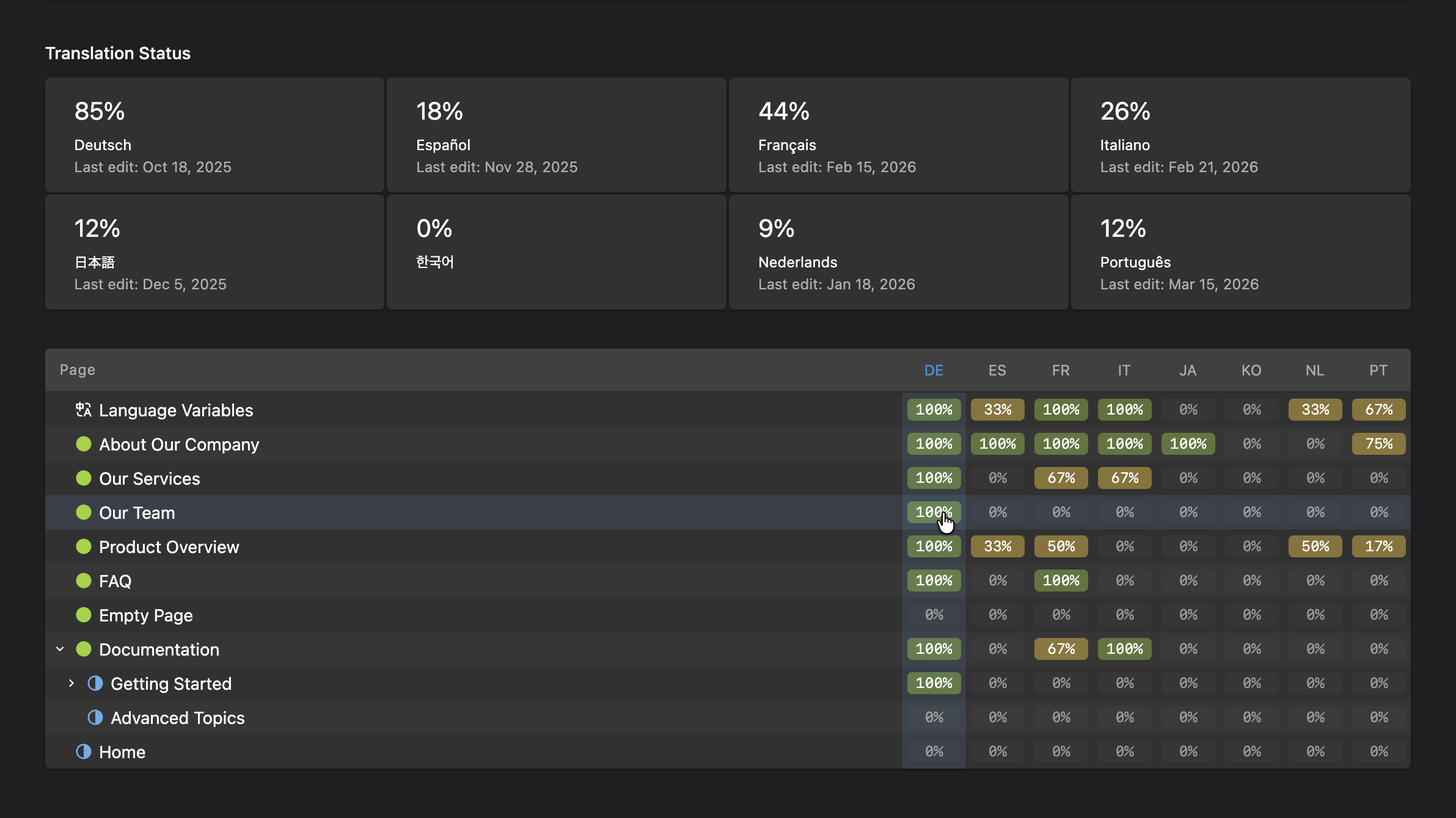
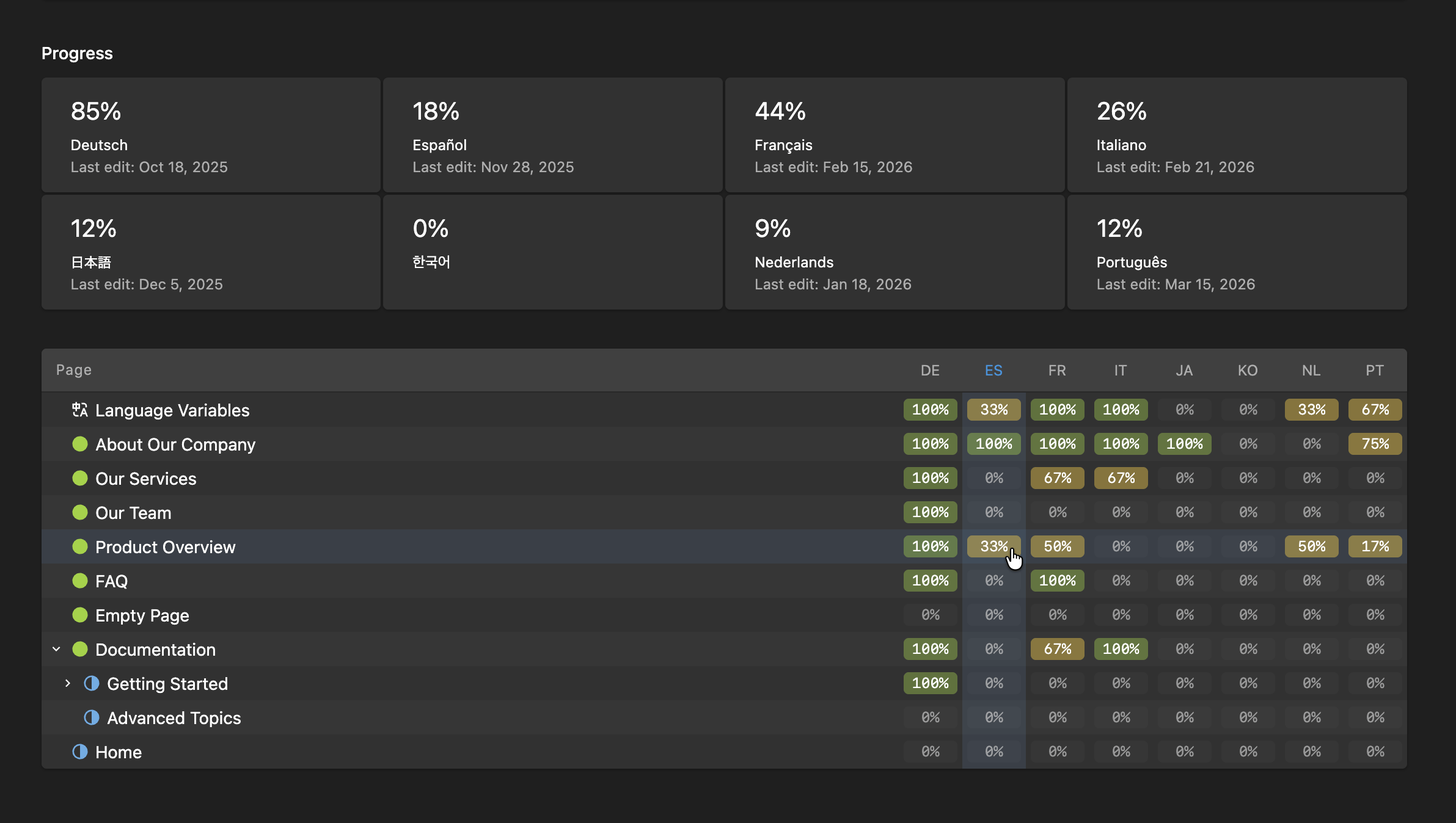
Status → progress

diff --git a/index.js b/index.js
@@ -1,1 +1,1 @@
-(function(){"use strict";function o(a,t,e,n,r,s,l,$){var i=typeof a=="function"?a.options:a;return t&&(i.render=t,i.staticRenderFns=e,i._compiled=!0),{exports:a,options:i}}const c={extends:"k-languages-view",data(){return{translationTree:[],translationLanguages:[],translationDefaultLanguage:"",translationTotals:{},translationLastModified:{},hoveredLang:null}},created(){this.loadTranslationStatus()},computed:{statsReports(){return this.translationLanguages.map(a=>{const t=this.translationTotals[a.code]||{},e=t.total?Math.round(t.translated/t.total*100):0,n=this.translationLastModified[a.code];let r=n?this.$t("translation-status.last-modified")+" "+new Date(n).toLocaleDateString(this.$panel.translation.code,{year:"numeric",month:"short",day:"numeric"}):"";return{value:e===100?"100% 🎉":e+"%",label:a.name,info:r,link:"languages/"+a.code}})}},methods:{async loadTranslationStatus(){try{const a=await this.$api.get("translation-status/overview");this.translationTree=a.tree,this.translationLanguages=a.languages,this.translationDefaultLanguage=a.defaultLanguage,this.translationTotals=a.totals,this.translationLastModified=a.lastModified}catch(a){console.error("Translation status load failed:",a)}}}};var u=function(){var t=this,e=t._self._c;return e("k-panel-inside",{staticClass:"k-languages-view"},[e("k-header",{scopedSlots:t._u([{key:"buttons",fn:function(){return[e("k-view-buttons",{attrs:{buttons:t.buttons}})]},proxy:!0}])},[t._v(" "+t._s(t.$t("view.languages"))+" ")]),t.languages.length>0?[e("k-section",{attrs:{headline:t.$t("languages.default")}},[e("k-collection",{attrs:{items:t.primaryLanguage}})],1),e("k-section",{attrs:{headline:t.$t("languages.secondary")}},[t.secondaryLanguages.length?e("k-collection",{attrs:{items:t.secondaryLanguages}}):e("k-empty",{attrs:{icon:"translate",disabled:!t.$panel.permissions.languages.create},on:{click:function(n){return t.$dialog("languages/create")}}},[t._v(" "+t._s(t.$t("languages.secondary.empty"))+" ")])],1)]:t.languages.length===0?[e("k-empty",{attrs:{icon:"translate",disabled:!t.$panel.permissions.languages.create},on:{click:function(n){return t.$dialog("languages/create")}}},[t._v(" "+t._s(t.$t("languages.empty"))+" ")])]:t._e(),t.translationTree&&t.translationTree.length?[e("k-section",{staticClass:"translation-status-section",attrs:{headline:t.$t("translation-status.title")}},[e("k-stats",{attrs:{size:"medium",reports:t.statsReports}})],1),e("k-section",[e("div",{staticClass:"translation-status-tree-container",on:{mouseleave:function(n){t.hoveredLang=null}}},[e("div",{staticClass:"translation-status-tree-inner"},[e("div",{staticClass:"translation-tree-header"},[e("span",{staticClass:"translation-tree-header__pages",on:{mouseenter:function(n){t.hoveredLang=null}}},[t._v(t._s(t.$t("page")))]),e("div",{staticClass:"translation-tree-header__percentages"},t._l(t.translationLanguages,function(n){return e("span",{key:n.code,staticClass:"translation-tree-header__cell",class:{"translation-tree-header__cell--hover":t.hoveredLang===n.code},on:{mouseenter:function(r){t.hoveredLang=n.code}}},[e("span",{staticClass:"translation-tree-header__lang",class:{"translation-tree-header__lang--hover":t.hoveredLang===n.code},attrs:{title:n.name}},[t._v(t._s(n.code.toUpperCase()))])])}),0)]),e("translation-tree",{attrs:{nodes:t.translationTree,languages:t.translationLanguages,"default-language":t.translationDefaultLanguage,"hovered-lang":t.hoveredLang},on:{"hover-lang":function(n){t.hoveredLang=n}}})],1)])])]:t._e()],2)},d=[],g=o(c,u,d);const h=g.exports,_={name:"translation-tree",props:{nodes:{type:Array,default:()=>[]},languages:{type:Array,default:()=>[]},defaultLanguage:{type:String,default:"en"},hoveredLang:{default:null},level:{type:Number,default:0},startIndex:{type:Number,default:0}},emits:["hover-lang"],data(){const a=this.loadStoredIds(),t=a!==null?this.nodes.filter(e=>a.includes(e.id)).map(e=>e.id):this.nodes.map(e=>e.id);return{openIds:new Set(t)}},methods:{flatIndex(a){let t=this.startIndex;for(let e=0;e<a;e++)t+=1+this.visibleDescendants(this.nodes[e]);return t},visibleDescendants(a){if(!this.hasChildren(a)||!this.isOpen(a.id))return 0;let t=0;for(const e of a.children)t+=1+this.visibleDescendants(e);return t},childStartIndex(a){return this.flatIndex(a)+1},hasChildren(a){return a.children&&a.children.length>0},isOpen(a){return this.openIds.has(a)},toggle(a){this.openIds.has(a)?this.openIds.delete(a):this.openIds.add(a),this.openIds=new Set(this.openIds),this.saveStoredIds()},loadStoredIds(){try{const a=localStorage.getItem("translation-tree-open");return a?JSON.parse(a):null}catch{return null}},saveStoredIds(){const a=this.loadStoredIds()||[];for(const t of this.nodes){const e=a.indexOf(t.id);this.openIds.has(t.id)&&e===-1?a.push(t.id):!this.openIds.has(t.id)&&e!==-1&&a.splice(e,1)}localStorage.setItem("translation-tree-open",JSON.stringify(a))},percentLink(a,t){return a.id==="_variables"?"/languages/"+t:a.link?"/"+a.link+"?language="+t:!1},percentage(a,t){var n;const e=(n=a.langs)==null?void 0:n[t];return!e||!e.total?0:Math.round(e.translated/e.total*100)},langStatus(a,t){var e,n;return((n=(e=a.langs)==null?void 0:e[t])==null?void 0:n.status)??"missing"},langTitle(a,t){var r;const e=(r=a.langs)==null?void 0:r[t];return e?{complete:this.$t("translation-status.complete"),partial:`${e.translated}/${e.total}`,untranslated:this.$t("translation-status.untranslated"),missing:this.$t("translation-status.missing")}[e.status]||e.status:this.$t("translation-status.missing")}}};var p=function(){var t=this,e=t._self._c;return e("ul",{staticClass:"translation-tree",style:{"--translation-tree-level":t.level},attrs:{role:"tree"}},t._l(t.nodes,function(n,r){return e("li",{key:n.id,attrs:{role:"treeitem","aria-expanded":t.hasChildren(n)?t.isOpen(n.id):void 0}},[e("div",{staticClass:"translation-tree__row",class:{"translation-tree__row--odd":t.flatIndex(r)%2===1}},[e("div",{staticClass:"translation-tree__branch",on:{mouseenter:function(s){return t.$emit("hover-lang",null)},focusin:function(s){return t.$emit("hover-lang",null)}}},[t.hasChildren(n)?e("button",{staticClass:"translation-tree__toggle",attrs:{type:"button"},on:{click:function(s){return t.toggle(n.id)}}},[e("k-icon",{attrs:{type:t.isOpen(n.id)?"angle-down":"angle-right"}})],1):e("span",{staticClass:"translation-tree__toggle"}),n.link?e("k-link",{staticClass:"translation-tree__folder",attrs:{to:"/"+n.link+"?language="+t.defaultLanguage}},[e("k-icon",{class:"translation-tree__status"+(n.status?" translation-tree__status--"+n.status:""),attrs:{type:n.icon||"status-"+n.status}}),e("span",{staticClass:"translation-tree__label"},[t._v(t._s(n.title))])],1):e("span",{staticClass:"translation-tree__folder translation-tree__folder--static"},[e("k-icon",{staticClass:"translation-tree__status",attrs:{type:n.icon||"page"}}),e("span",{staticClass:"translation-tree__label"},[t._v(t._s(n.title))])],1)],1),e("div",{staticClass:"translation-tree__percentages"},[n.langs?t._l(t.languages,function(s){return e("span",{key:s.code,staticClass:"translation-tree__percent-cell",class:{"translation-tree__percent-cell--hover":t.hoveredLang===s.code},on:{mouseenter:function(l){return t.$emit("hover-lang",s.code)},focusin:function(l){return t.$emit("hover-lang",s.code)}}},[e("k-link",{staticClass:"translation-tree__percent",class:"translation-tree__percent--"+t.langStatus(n,s.code),attrs:{title:s.name+": "+t.langTitle(n,s.code),to:t.percentLink(n,s.code)}},[t._v(t._s(t.percentage(n,s.code))+"%")])],1)}):t._l(t.languages,function(s){return e("span",{key:s.code,staticClass:"translation-tree__percent-cell",class:{"translation-tree__percent-cell--hover":t.hoveredLang===s.code},on:{mouseenter:function(l){return t.$emit("hover-lang",s.code)}}},[e("span",{staticClass:"translation-tree__percent translation-tree__percent--empty"})])})],2)]),t.hasChildren(n)&&t.isOpen(n.id)?e("translation-tree",{attrs:{nodes:n.children,languages:t.languages,"default-language":t.defaultLanguage,"hovered-lang":t.hoveredLang,level:t.level+1,"start-index":t.childStartIndex(r)},on:{"hover-lang":function(s){return t.$emit("hover-lang",s)}}}):t._e()],1)}),0)},f=[],v=o(_,p,f);const m=v.exports;panel.plugin("medienbaecker/translation-status",{components:{"k-languages-view":h,"translation-tree":m}})})();
+(function(){"use strict";function o(a,t,e,n,r,s,l,$){var i=typeof a=="function"?a.options:a;return t&&(i.render=t,i.staticRenderFns=e,i._compiled=!0),{exports:a,options:i}}const c={extends:"k-languages-view",data(){return{translationTree:[],translationLanguages:[],translationDefaultLanguage:"",translationTotals:{},translationLastModified:{},hoveredLang:null}},created(){this.loadTranslationStatus()},computed:{statsReports(){return this.translationLanguages.map(a=>{const t=this.translationTotals[a.code]||{},e=t.total?Math.round(t.translated/t.total*100):0,n=this.translationLastModified[a.code];let r=n?this.$t("translation-progress.last-modified")+" "+new Date(n).toLocaleDateString(this.$panel.translation.code,{year:"numeric",month:"short",day:"numeric"}):"";return{value:e===100?"100% 🎉":e+"%",label:a.name,info:r,link:"languages/"+a.code}})}},methods:{async loadTranslationStatus(){try{const a=await this.$api.get("translation-progress/overview");this.translationTree=a.tree,this.translationLanguages=a.languages,this.translationDefaultLanguage=a.defaultLanguage,this.translationTotals=a.totals,this.translationLastModified=a.lastModified}catch(a){console.error("Translation status load failed:",a)}}}};var u=function(){var t=this,e=t._self._c;return e("k-panel-inside",{staticClass:"k-languages-view"},[e("k-header",{scopedSlots:t._u([{key:"buttons",fn:function(){return[e("k-view-buttons",{attrs:{buttons:t.buttons}})]},proxy:!0}])},[t._v(" "+t._s(t.$t("view.languages"))+" ")]),t.languages.length>0?[e("k-section",{attrs:{headline:t.$t("languages.default")}},[e("k-collection",{attrs:{items:t.primaryLanguage}})],1),e("k-section",{attrs:{headline:t.$t("languages.secondary")}},[t.secondaryLanguages.length?e("k-collection",{attrs:{items:t.secondaryLanguages}}):e("k-empty",{attrs:{icon:"translate",disabled:!t.$panel.permissions.languages.create},on:{click:function(n){return t.$dialog("languages/create")}}},[t._v(" "+t._s(t.$t("languages.secondary.empty"))+" ")])],1)]:t.languages.length===0?[e("k-empty",{attrs:{icon:"translate",disabled:!t.$panel.permissions.languages.create},on:{click:function(n){return t.$dialog("languages/create")}}},[t._v(" "+t._s(t.$t("languages.empty"))+" ")])]:t._e(),t.translationTree&&t.translationTree.length?[e("k-section",{staticClass:"translation-progress-section",attrs:{headline:t.$t("translation-progress.title")}},[e("k-stats",{attrs:{size:"medium",reports:t.statsReports}})],1),e("k-section",[e("div",{staticClass:"translation-progress-tree-container",on:{mouseleave:function(n){t.hoveredLang=null}}},[e("div",{staticClass:"translation-progress-tree-inner"},[e("div",{staticClass:"translation-tree-header"},[e("span",{staticClass:"translation-tree-header__pages",on:{mouseenter:function(n){t.hoveredLang=null}}},[t._v(t._s(t.$t("page")))]),e("div",{staticClass:"translation-tree-header__percentages"},t._l(t.translationLanguages,function(n){return e("span",{key:n.code,staticClass:"translation-tree-header__cell",class:{"translation-tree-header__cell--hover":t.hoveredLang===n.code},on:{mouseenter:function(r){t.hoveredLang=n.code}}},[e("span",{staticClass:"translation-tree-header__lang",class:{"translation-tree-header__lang--hover":t.hoveredLang===n.code},attrs:{title:n.name}},[t._v(t._s(n.code.toUpperCase()))])])}),0)]),e("translation-tree",{attrs:{nodes:t.translationTree,languages:t.translationLanguages,"default-language":t.translationDefaultLanguage,"hovered-lang":t.hoveredLang},on:{"hover-lang":function(n){t.hoveredLang=n}}})],1)])])]:t._e()],2)},d=[],g=o(c,u,d);const h=g.exports,_={name:"translation-tree",props:{nodes:{type:Array,default:()=>[]},languages:{type:Array,default:()=>[]},defaultLanguage:{type:String,default:"en"},hoveredLang:{default:null},level:{type:Number,default:0},startIndex:{type:Number,default:0}},emits:["hover-lang"],data(){const a=this.loadStoredIds(),t=a!==null?this.nodes.filter(e=>a.includes(e.id)).map(e=>e.id):this.nodes.map(e=>e.id);return{openIds:new Set(t)}},methods:{flatIndex(a){let t=this.startIndex;for(let e=0;e<a;e++)t+=1+this.visibleDescendants(this.nodes[e]);return t},visibleDescendants(a){if(!this.hasChildren(a)||!this.isOpen(a.id))return 0;let t=0;for(const e of a.children)t+=1+this.visibleDescendants(e);return t},childStartIndex(a){return this.flatIndex(a)+1},hasChildren(a){return a.children&&a.children.length>0},isOpen(a){return this.openIds.has(a)},toggle(a){this.openIds.has(a)?this.openIds.delete(a):this.openIds.add(a),this.openIds=new Set(this.openIds),this.saveStoredIds()},loadStoredIds(){try{const a=localStorage.getItem("translation-tree-open");return a?JSON.parse(a):null}catch{return null}},saveStoredIds(){const a=this.loadStoredIds()||[];for(const t of this.nodes){const e=a.indexOf(t.id);this.openIds.has(t.id)&&e===-1?a.push(t.id):!this.openIds.has(t.id)&&e!==-1&&a.splice(e,1)}localStorage.setItem("translation-tree-open",JSON.stringify(a))},percentLink(a,t){return a.id==="_variables"?"/languages/"+t:a.link?"/"+a.link+"?language="+t:!1},percentage(a,t){var n;const e=(n=a.langs)==null?void 0:n[t];return!e||!e.total?0:Math.round(e.translated/e.total*100)},langStatus(a,t){var e,n;return((n=(e=a.langs)==null?void 0:e[t])==null?void 0:n.status)??"missing"},langTitle(a,t){var r;const e=(r=a.langs)==null?void 0:r[t];return e?{complete:this.$t("translation-progress.complete"),partial:`${e.translated}/${e.total}`,untranslated:this.$t("translation-progress.untranslated"),missing:this.$t("translation-progress.missing")}[e.status]||e.status:this.$t("translation-progress.missing")}}};var p=function(){var t=this,e=t._self._c;return e("ul",{staticClass:"translation-tree",style:{"--translation-tree-level":t.level},attrs:{role:"tree"}},t._l(t.nodes,function(n,r){return e("li",{key:n.id,attrs:{role:"treeitem","aria-expanded":t.hasChildren(n)?t.isOpen(n.id):void 0}},[e("div",{staticClass:"translation-tree__row",class:{"translation-tree__row--odd":t.flatIndex(r)%2===1}},[e("div",{staticClass:"translation-tree__branch",on:{mouseenter:function(s){return t.$emit("hover-lang",null)},focusin:function(s){return t.$emit("hover-lang",null)}}},[t.hasChildren(n)?e("button",{staticClass:"translation-tree__toggle",attrs:{type:"button"},on:{click:function(s){return t.toggle(n.id)}}},[e("k-icon",{attrs:{type:t.isOpen(n.id)?"angle-down":"angle-right"}})],1):e("span",{staticClass:"translation-tree__toggle"}),n.link?e("k-link",{staticClass:"translation-tree__folder",attrs:{to:"/"+n.link+"?language="+t.defaultLanguage}},[e("k-icon",{class:"translation-tree__status"+(n.status?" translation-tree__status--"+n.status:""),attrs:{type:n.icon||"status-"+n.status}}),e("span",{staticClass:"translation-tree__label"},[t._v(t._s(n.title))])],1):e("span",{staticClass:"translation-tree__folder translation-tree__folder--static"},[e("k-icon",{staticClass:"translation-tree__status",attrs:{type:n.icon||"page"}}),e("span",{staticClass:"translation-tree__label"},[t._v(t._s(n.title))])],1)],1),e("div",{staticClass:"translation-tree__percentages"},[n.langs?t._l(t.languages,function(s){return e("span",{key:s.code,staticClass:"translation-tree__percent-cell",class:{"translation-tree__percent-cell--hover":t.hoveredLang===s.code},on:{mouseenter:function(l){return t.$emit("hover-lang",s.code)},focusin:function(l){return t.$emit("hover-lang",s.code)}}},[e("k-link",{staticClass:"translation-tree__percent",class:"translation-tree__percent--"+t.langStatus(n,s.code),attrs:{title:s.name+": "+t.langTitle(n,s.code),to:t.percentLink(n,s.code)}},[t._v(t._s(t.percentage(n,s.code))+"%")])],1)}):t._l(t.languages,function(s){return e("span",{key:s.code,staticClass:"translation-tree__percent-cell",class:{"translation-tree__percent-cell--hover":t.hoveredLang===s.code},on:{mouseenter:function(l){return t.$emit("hover-lang",s.code)}}},[e("span",{staticClass:"translation-tree__percent translation-tree__percent--empty"})])})],2)]),t.hasChildren(n)&&t.isOpen(n.id)?e("translation-tree",{attrs:{nodes:n.children,languages:t.languages,"default-language":t.defaultLanguage,"hovered-lang":t.hoveredLang,level:t.level+1,"start-index":t.childStartIndex(r)},on:{"hover-lang":function(s){return t.$emit("hover-lang",s)}}}):t._e()],1)}),0)},f=[],v=o(_,p,f);const m=v.exports;panel.plugin("medienbaecker/translation-progress",{components:{"k-languages-view":h,"translation-tree":m}})})();

diff --git a/index.css b/index.css
@@ -1,1 +1,1 @@
-.translation-status-section{margin-block-start:var(--spacing-12)}.translation-status-tree-container{background:var(--input-color-back);border-radius:var(--rounded);box-shadow:var(--shadow);overflow-x:auto}.translation-status-tree-inner{min-width:100%;width:max-content}.translation-tree-header{display:flex;align-items:center;height:var(--input-height);background:light-dark(var(--color-gray-100),var(--color-gray-800));border-block-end:1px solid light-dark(rgba(0,0,0,.08),rgba(0,0,0,.375));border-start-start-radius:var(--rounded);border-start-end-radius:var(--rounded)}.translation-tree-header__pages{flex:1;min-width:12rem;padding-inline:var(--spacing-3);font-family:var(--font-mono);font-size:var(--text-xs);color:var(--color-text-dimmed);line-height:1.25}.translation-tree-header__percentages{display:flex;flex-shrink:0;align-items:stretch}.translation-tree-header__cell{display:flex;align-items:center}.translation-tree-header__lang{display:inline-block;width:2.75rem;margin:0 .25rem;text-align:center;font-size:var(--text-xs);color:var(--color-text-dimmed);line-height:1.25}.translation-tree-header__lang--hover{color:var(--color-focus)}.translation-tree{list-style:none;padding:0;margin:0}.translation-tree__row{display:flex;align-items:center}.translation-tree__row--odd{background:light-dark(rgba(0,0,0,.025),rgba(255,255,255,.025))}.translation-tree__row:hover,.translation-tree__row:focus-within{background:color-mix(in srgb,var(--color-blue-500),transparent 88%)}.translation-tree__branch{display:flex;align-items:center;flex:1;min-width:12rem;padding-inline-start:calc(var(--translation-tree-level) * .6rem)}.translation-tree__toggle{--icon-size: 12px;width:1rem;aspect-ratio:1/1;display:grid;place-items:center;padding:0;border:none;background:none;border-radius:var(--rounded-sm);margin-inline-start:.25rem;flex-shrink:0;color:inherit;cursor:pointer}.translation-tree__toggle:hover{background:#00000013}.translation-tree__folder{display:flex;height:var(--height-sm);border-radius:var(--rounded-sm);padding-inline:.25rem;width:100%;align-items:center;gap:.325rem;min-width:3rem;line-height:1.25;font-size:var(--text-sm);color:var(--color-text);text-decoration:none}.translation-tree__status{--icon-size: 15px;flex-shrink:0}.translation-tree__status--draft{color:var(--color-red-500)}.translation-tree__status--unlisted{color:var(--color-blue-500)}.translation-tree__status--listed{color:var(--color-green-500)}.translation-tree__label{overflow:hidden;text-overflow:ellipsis;white-space:nowrap}.translation-tree__percentages{display:flex;flex-shrink:0;align-self:stretch;align-items:stretch}.translation-tree__percent-cell{display:flex;align-items:center}.translation-tree__percent{display:inline-flex;align-items:center;justify-content:center;width:2.75rem;margin:.125rem .25rem;text-align:center;font-size:var(--text-xs);font-family:var(--font-mono);font-variant-numeric:tabular-nums;border:none;padding:.2rem .375rem;border-radius:var(--rounded);color:var(--color-text);background:color-mix(in srgb,var(--color-gray-500),transparent 90%)}.translation-tree__percent--complete{background:color-mix(in srgb,var(--color-green-500),transparent 60%)}.translation-tree__percent--partial{background:color-mix(in srgb,var(--color-yellow-500),transparent 55%)}.translation-tree__percent--untranslated,.translation-tree__percent--missing{background:color-mix(in srgb,var(--color-gray-500),transparent 92%);opacity:.5}.translation-tree__percent--empty{visibility:hidden}.translation-tree__percent-cell--hover{background:color-mix(in srgb,var(--color-blue-500),transparent 88%)}
+.translation-progress-section{margin-block-start:var(--spacing-12)}.translation-progress-tree-container{background:var(--input-color-back);border-radius:var(--rounded);box-shadow:var(--shadow);overflow-x:auto}.translation-progress-tree-inner{min-width:100%;width:max-content}.translation-tree-header{display:flex;align-items:center;height:var(--input-height);background:light-dark(var(--color-gray-100),var(--color-gray-800));border-block-end:1px solid light-dark(rgba(0,0,0,.08),rgba(0,0,0,.375));border-start-start-radius:var(--rounded);border-start-end-radius:var(--rounded)}.translation-tree-header__pages{flex:1;min-width:12rem;padding-inline:var(--spacing-3);font-family:var(--font-mono);font-size:var(--text-xs);color:var(--color-text-dimmed);line-height:1.25}.translation-tree-header__percentages{display:flex;flex-shrink:0;align-items:stretch}.translation-tree-header__cell{display:flex;align-items:center}.translation-tree-header__lang{display:inline-block;width:2.75rem;margin:0 .25rem;text-align:center;font-size:var(--text-xs);color:var(--color-text-dimmed);line-height:1.25}.translation-tree-header__lang--hover{color:var(--color-focus)}.translation-tree{list-style:none;padding:0;margin:0}.translation-tree__row{display:flex;align-items:center}.translation-tree__row--odd{background:light-dark(rgba(0,0,0,.025),rgba(255,255,255,.025))}.translation-tree__row:hover,.translation-tree__row:focus-within{background:color-mix(in srgb,var(--color-blue-500),transparent 88%)}.translation-tree__branch{display:flex;align-items:center;flex:1;min-width:12rem;padding-inline-start:calc(var(--translation-tree-level) * .6rem)}.translation-tree__toggle{--icon-size: 12px;width:1rem;aspect-ratio:1/1;display:grid;place-items:center;padding:0;border:none;background:none;border-radius:var(--rounded-sm);margin-inline-start:.25rem;flex-shrink:0;color:inherit;cursor:pointer}.translation-tree__toggle:hover{background:#00000013}.translation-tree__folder{display:flex;height:var(--height-sm);border-radius:var(--rounded-sm);padding-inline:.25rem;width:100%;align-items:center;gap:.325rem;min-width:3rem;line-height:1.25;font-size:var(--text-sm);color:var(--color-text);text-decoration:none}.translation-tree__status{--icon-size: 15px;flex-shrink:0}.translation-tree__status--draft{color:var(--color-red-500)}.translation-tree__status--unlisted{color:var(--color-blue-500)}.translation-tree__status--listed{color:var(--color-green-500)}.translation-tree__label{overflow:hidden;text-overflow:ellipsis;white-space:nowrap}.translation-tree__percentages{display:flex;flex-shrink:0;align-self:stretch;align-items:stretch}.translation-tree__percent-cell{display:flex;align-items:center}.translation-tree__percent{display:inline-flex;align-items:center;justify-content:center;width:2.75rem;margin:.125rem .25rem;text-align:center;font-size:var(--text-xs);font-family:var(--font-mono);font-variant-numeric:tabular-nums;border:none;padding:.2rem .375rem;border-radius:var(--rounded);color:var(--color-text);background:color-mix(in srgb,var(--color-gray-500),transparent 90%)}.translation-tree__percent--complete{background:color-mix(in srgb,var(--color-green-500),transparent 60%)}.translation-tree__percent--partial{background:color-mix(in srgb,var(--color-yellow-500),transparent 55%)}.translation-tree__percent--untranslated,.translation-tree__percent--missing{background:color-mix(in srgb,var(--color-gray-500),transparent 92%);opacity:.5}.translation-tree__percent--empty{visibility:hidden}.translation-tree__percent-cell--hover{background:color-mix(in srgb,var(--color-blue-500),transparent 88%)}

diff --git a/src/LanguagesView.vue b/src/LanguagesView.vue
@@ -39,13 +39,13 @@
 		</template>
 
 		<template v-if="translationTree && translationTree.length">
-			<k-section class="translation-status-section" :headline="$t('translation-status.title')">
+			<k-section class="translation-progress-section" :headline="$t('translation-progress.title')">
 				<k-stats size="medium" :reports="statsReports" />
 			</k-section>
 
 			<k-section>
-				<div class="translation-status-tree-container" @mouseleave="hoveredLang = null">
-					<div class="translation-status-tree-inner">
+				<div class="translation-progress-tree-container" @mouseleave="hoveredLang = null">
+					<div class="translation-progress-tree-inner">
 					<div class="translation-tree-header">
 						<span class="translation-tree-header__pages" @mouseenter="hoveredLang = null">{{ $t("page") }}</span>
 						<div class="translation-tree-header__percentages">
@@ -101,7 +101,7 @@ export default {
 				const modified = this.translationLastModified[lang.code];
 
 				let info = modified
-					? this.$t("translation-status.last-modified") + " " + new Date(modified).toLocaleDateString(this.$panel.translation.code, { year: "numeric", month: "short", day: "numeric" })
+					? this.$t("translation-progress.last-modified") + " " + new Date(modified).toLocaleDateString(this.$panel.translation.code, { year: "numeric", month: "short", day: "numeric" })
 					: "";
 
 				return {
@@ -116,7 +116,7 @@ export default {
 	methods: {
 		async loadTranslationStatus() {
 			try {
-				const data = await this.$api.get("translation-status/overview");
+				const data = await this.$api.get("translation-progress/overview");
 				this.translationTree = data.tree;
 				this.translationLanguages = data.languages;
 				this.translationDefaultLanguage = data.defaultLanguage;
@@ -131,18 +131,18 @@ export default {
 </script>
 
 <style>
-.translation-status-section {
+.translation-progress-section {
 	margin-block-start: var(--spacing-12);
 }
 
-.translation-status-tree-container {
+.translation-progress-tree-container {
 	background: var(--input-color-back);
 	border-radius: var(--rounded);
 	box-shadow: var(--shadow);
 	overflow-x: auto;
 }
 
-.translation-status-tree-inner {
+.translation-progress-tree-inner {
 	min-width: 100%;
 	width: max-content;
 }

diff --git a/src/TranslationTree.vue b/src/TranslationTree.vue
@@ -145,12 +145,12 @@ export default {
 		},
 		langTitle(node, langCode) {
 			const info = node.langs?.[langCode];
-			if (!info) return this.$t("translation-status.missing");
+			if (!info) return this.$t("translation-progress.missing");
 			const labels = {
-				complete: this.$t("translation-status.complete"),
+				complete: this.$t("translation-progress.complete"),
 				partial: `${info.translated}/${info.total}`,
-				untranslated: this.$t("translation-status.untranslated"),
-				missing: this.$t("translation-status.missing"),
+				untranslated: this.$t("translation-progress.untranslated"),
+				missing: this.$t("translation-progress.missing"),
 			};
 			return labels[info.status] || info.status;
 		},

diff --git a/src/index.js b/src/index.js
@@ -1,7 +1,7 @@
 import LanguagesView from "./LanguagesView.vue"
 import TranslationTree from "./TranslationTree.vue"
 
-panel.plugin("medienbaecker/translation-status", {
+panel.plugin("medienbaecker/translation-progress", {
 	components: {
 		"k-languages-view": LanguagesView,
 		"translation-tree": TranslationTree,

diff --git a/index.php b/index.php
@@ -5,7 +5,7 @@ use Kirby\Cms\App as Kirby;
 require_once __DIR__ . '/classes/FieldAdapters.php';
 require_once __DIR__ . '/classes/TranslationStatus.php';
 
-Kirby::plugin('medienbaecker/translation-status', [
+Kirby::plugin('medienbaecker/translation-progress', [
 	'options' => [
 		'minValueLength'    => 50,
 		'adapters'         => [],
@@ -16,33 +16,33 @@ Kirby::plugin('medienbaecker/translation-status', [
 	],
 	'translations' => [
 		'en' => [
-			'translation-status.title'        => 'Translation Status',
-			'translation-status.complete'      => 'Complete',
-			'translation-status.partial'       => 'Partial',
-			'translation-status.untranslated'  => 'Untranslated',
-			'translation-status.missing'       => 'Missing',
-			'translation-status.variables'     => 'Language Variables',
-			'translation-status.last-modified' => 'Last edit:',
+			'translation-progress.title'        => 'Progress',
+			'translation-progress.complete'      => 'Complete',
+			'translation-progress.partial'       => 'Partial',
+			'translation-progress.untranslated'  => 'Untranslated',
+			'translation-progress.missing'       => 'Missing',
+			'translation-progress.variables'     => 'Language Variables',
+			'translation-progress.last-modified' => 'Last edit:',
 		],
 		'de' => [
-			'translation-status.title'        => 'Übersetzungsstatus',
-			'translation-status.complete'      => 'Vollständig',
-			'translation-status.partial'       => 'Teilweise',
-			'translation-status.untranslated'  => 'Nicht übersetzt',
-			'translation-status.missing'       => 'Fehlt',
-			'translation-status.variables'     => 'Sprachvariablen',
-			'translation-status.last-modified' => 'Letzte Änderung:',
+			'translation-progress.title'        => 'Fortschritt',
+			'translation-progress.complete'      => 'Vollständig',
+			'translation-progress.partial'       => 'Teilweise',
+			'translation-progress.untranslated'  => 'Nicht übersetzt',
+			'translation-progress.missing'       => 'Fehlt',
+			'translation-progress.variables'     => 'Sprachvariablen',
+			'translation-progress.last-modified' => 'Letzte Änderung:',
 		],
 	],
 	'api' => [
 		'routes' => [
 			[
-				'pattern' => 'translation-status/overview',
+				'pattern' => 'translation-progress/overview',
 				'method'  => 'GET',
 				'action'  => function () {
 					FieldAdapters::registerDefaults();
 
-					$custom = option('medienbaecker.translation-status.adapters', []);
+					$custom = option('medienbaecker.translation-progress.adapters', []);
 					foreach ($custom as $type => $adapter) {
 						FieldAdapters::register($type, $adapter);
 					}

diff --git a/classes/TranslationStatus.php b/classes/TranslationStatus.php
@@ -23,7 +23,7 @@ class TranslationStatus
 		$template = $page->intendedTemplate()->name();
 		if (!isset(self::$fieldCache[$template])) {
 			$form = \Kirby\Form\Form::for($page);
-			$ignoreTypes = option('medienbaecker.translation-status.ignoreFieldTypes', []);
+			$ignoreTypes = option('medienbaecker.translation-progress.ignoreFieldTypes', []);
 			$fields = [];
 
 			foreach ($form->fields() as $name => $field) {
@@ -82,7 +82,7 @@ class TranslationStatus
 		if ($defaultText !== $langText) return true;
 
 		// Short identical values are likely loan words or proper nouns
-		$minLength = option('medienbaecker.translation-status.minValueLength', 50);
+		$minLength = option('medienbaecker.translation-progress.minValueLength', 50);
 		return mb_strlen($langText) < $minLength;
 	}
 
@@ -200,11 +200,11 @@ class TranslationStatus
 		$tree = self::buildTree($kirby->site(), $defaultLang, $secondaryLangs, $lastModified);
 
 		// Language variables node
-		if (option('medienbaecker.translation-status.languageVariables', true)) {
+		if (option('medienbaecker.translation-progress.languageVariables', true)) {
 			$defaultTranslations = $kirby->defaultLanguage()->translations();
 			$variablesNode = [
 				'id'    => '_variables',
-				'title' => t('translation-status.variables', 'Language Variables'),
+				'title' => t('translation-progress.variables', 'Language Variables'),
 				'icon'  => 'translate',
 				'link'  => 'languages/' . $defaultLang,
 				'langs' => [],

diff --git a/README.md b/README.md
@@ -1,20 +1,20 @@
-# Kirby Translation Status
+# Kirby Translation Progress
 
 Adds a translation overview to the Panel's Languages view: a percentage per language and a page tree showing the translation progress for every page.
 
-![The Languages view with a Translation Status section showing per-language percentages and a page tree with translation progress per page and language](.github/screenshot.png)
+![The Languages view with a Translation Progress section showing per-language percentages and a page tree with translation progress per page and language](.github/screenshot.png)
 
 ## Installation
 
 ### Composer
 
 ```bash
-composer require medienbaecker/kirby-translation-status
+composer require medienbaecker/kirby-translation-progress
 ```
 
 ### Manual
 
-Download and extract to `site/plugins/kirby-translation-status`.
+Download and extract to `site/plugins/kirby-translation-progress`.
 
 ## Requirements
 
@@ -57,7 +57,7 @@ The `translations` array from your language files is also compared, shown as a s
 ## Options
 
 ```php
-'medienbaecker.translation-status' => [
+'medienbaecker.translation-progress' => [
     'minValueLength'    => 50,
     'languageVariables' => true,
     'ignoreFieldTypes'  => ['files', 'pages', 'users'],
@@ -79,7 +79,7 @@ fields:
 For third-party field types that store text in a custom format, register an adapter that returns plain text:
 
 ```php
-'medienbaecker.translation-status' => [
+'medienbaecker.translation-progress' => [
     'adapters' => [
         'my-field' => function (string $value): string {
             $data = json_decode($value, true);
